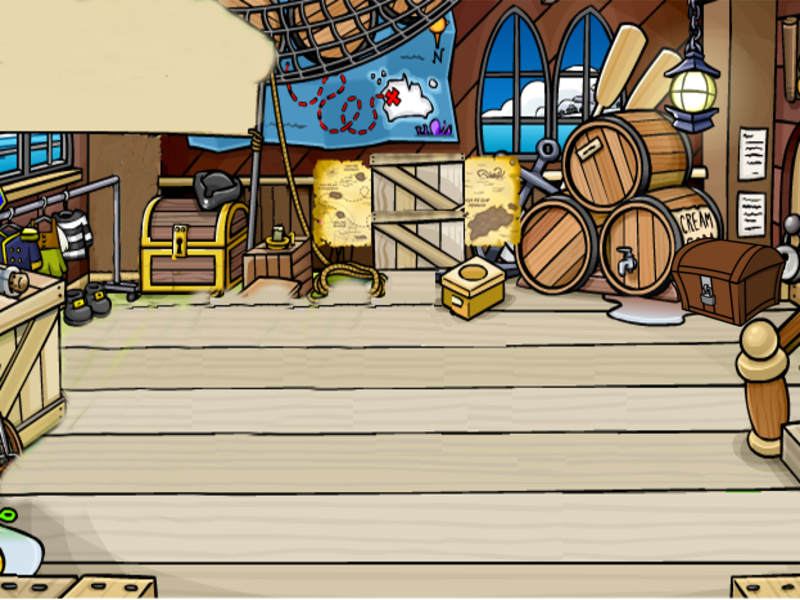
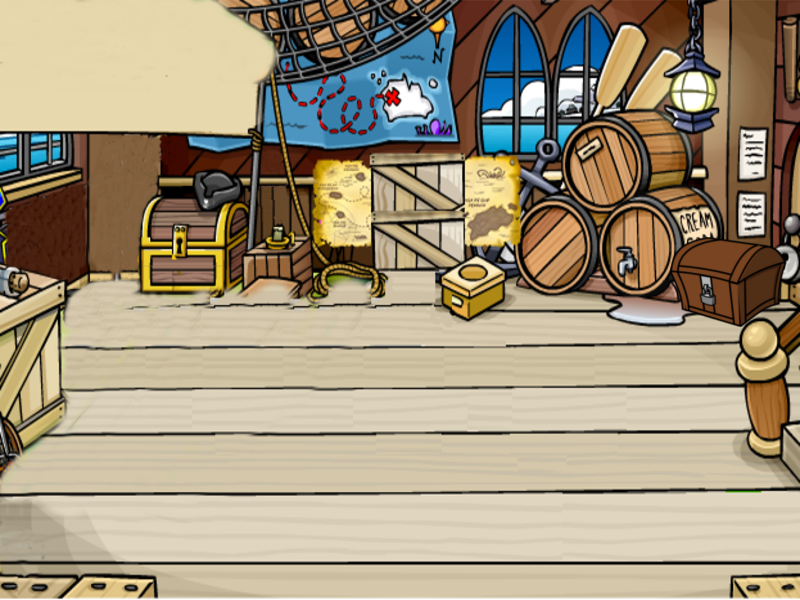
Change assets and positions for game 2 block 1

Changed region(s): [[0.0, 0.27, 0.25, 0.57], [0.0, 0.84, 0.0625, 0.96]]

diff --git a/src/block1/Game2.js b/src/block1/Game2.js
@@ -28,35 +28,35 @@ var b1g2_level2 = [
     {"op": "Si la jarra contiene un litro,\n ¿Cuánto debe contener cada vaso?", "answer1": "1/10", "answer2": "1/11", "answer3": "1/12", "numberOfCups":10, "liters":1, "rightAnswer": "1/10"},
     {"op": "Si la jarra contiene un litro,\n ¿Cuánto debe contener cada vaso?", "answer1": "1/11", "answer2": "2/12", "answer3": "2/11", "numberOfCups":11, "liters":1, "rightAnswer": "1/11"},
     {"op": "Si la jarra contiene un litro,\n ¿Cuánto debe contener cada vaso?", "answer1": "3/1", "answer2": "3/4", "answer3": "1/12", "numberOfCups":12, "liters":1, "rightAnswer": "1/12"},
-    {"op": "Si las jarras contienen un litro,\n ¿Cuánto debe contener cada vaso?", "answer1": "1/6", "answer2": "2/3", "answer3": "1/3", "numberOfCups":3, "liters":2, "rightAnswer": "2/3"},
-    {"op": "Si las jarras contienen un litro,\n ¿Cuánto debe contener cada vaso?", "answer1": "1/2", "answer2": "2/1", "answer3": "1", "numberOfCups":2, "liters":2, "rightAnswer": "1"},
-    {"op": "Si las jarras contienen un litro,\n ¿Cuánto debe contener cada vaso?", "answer1": "1/2", "answer2": "2/8", "answer3": "2/4", "numberOfCups":4, "liters":2, "rightAnswer": "1/2"},
-    {"op": "Si las jarras contienen un litro,\n ¿Cuánto debe contener cada vaso?", "answer1": "2/5", "answer2": "3/5", "answer3": "1/5", "numberOfCups":5, "liters":2, "rightAnswer": "2/5"},
-    {"op": "Si las jarras contienen un litro,\n ¿Cuánto debe contener cada vaso?", "answer1": "1/6", "answer2": "1/2", "answer3": "3/6", "numberOfCups":6, "liters":3, "rightAnswer": "1/2"}
+    {"op": "Si las 2 jarras contienen un litro,\n ¿Cuánto debe contener cada vaso?", "answer1": "1/6", "answer2": "2/3", "answer3": "1/3", "numberOfCups":3, "liters":2, "rightAnswer": "2/3"},
+    {"op": "Si las 2 jarras contienen un litro,\n ¿Cuánto debe contener cada vaso?", "answer1": "1/2", "answer2": "2/1", "answer3": "1", "numberOfCups":2, "liters":2, "rightAnswer": "1"},
+    {"op": "Si las 2 jarras contienen un litro,\n ¿Cuánto debe contener cada vaso?", "answer1": "1/2", "answer2": "2/8", "answer3": "2/4", "numberOfCups":4, "liters":2, "rightAnswer": "1/2"},
+    {"op": "Si las 2 jarras contienen un litro,\n ¿Cuánto debe contener cada vaso?", "answer1": "2/5", "answer2": "3/5", "answer3": "1/5", "numberOfCups":5, "liters":2, "rightAnswer": "2/5"},
+    {"op": "Si las 3 jarras contienen un litro,\n ¿Cuánto debe contener cada vaso?", "answer1": "1/6", "answer2": "1/2", "answer3": "3/6", "numberOfCups":6, "liters":3, "rightAnswer": "1/2"}
 ];
 var b1g2_level3 = [
-    {"op": "Si las jarras contienen un litro,\n ¿Cuánto debe contener cada vaso?", "answer1": "0.5", "answer2": "1/4", "answer3": "0.20", "numberOfCups":8, "liters":2, "rightAnswer": "1/4"},
-    {"op": "Si las jarras contienen un litro,\n ¿Cuánto debe contener cada vaso?", "answer1": "0.25", "answer2": "1/10", "answer3": "1/5", "numberOfCups":10, "liters":2, "rightAnswer": "1/5"},
-    {"op": "Si las jarras contienen un litro,\n ¿Cuánto debe contener cada vaso?", "answer1": "0.33", "answer2": "1/12", "answer3": "1/6", "numberOfCups":12, "liters":2, "rightAnswer": "1/6"},
+    {"op": "Si las 2 jarras contienen un litro,\n ¿Cuánto debe contener cada vaso?", "answer1": "0.5", "answer2": "1/4", "answer3": "0.20", "numberOfCups":8, "liters":2, "rightAnswer": "1/4"},
+    {"op": "Si las 2 jarras contienen un litro,\n ¿Cuánto debe contener cada vaso?", "answer1": "0.25", "answer2": "1/10", "answer3": "1/5", "numberOfCups":10, "liters":2, "rightAnswer": "1/5"},
+    {"op": "Si las 2 jarras contienen un litro,\n ¿Cuánto debe contener cada vaso?", "answer1": "0.33", "answer2": "1/12", "answer3": "1/6", "numberOfCups":12, "liters":2, "rightAnswer": "1/6"},
     {"op": "Si la jarra contiene un litro,\n ¿Cuánto debe contener cada vaso?", "answer1": "1/3", "answer2": "0.5", "answer3": "1/5", "numberOfCups":2, "liters":1, "rightAnswer": "0.5"},
     {"op": "Si la jarra contiene un litro,\n ¿Cuánto debe contener cada vaso?", "answer1": "3", "answer2": "2/3", "answer3": "0.33", "numberOfCups":3, "liters":1, "rightAnswer": "0.33"},
     {"op": "Si la jarra contiene un litro,\n ¿Cuánto debe contener cada vaso?", "answer1": "0.25", "answer2": "1/2", "answer3": "1/8", "numberOfCups":4, "liters":1, "rightAnswer": "0.25"},
     {"op": "Si la jarra contiene un litro,\n ¿Cuánto debe contener cada vaso?", "answer1": "1/2", "answer2": "1/8", "answer3": "0.20", "numberOfCups":5, "liters":1, "rightAnswer": "0.20"},
-    {"op": "Si las jarras contienen un litro,\n ¿Cuánto debe contener cada vaso?", "answer1": "0.5", "answer2": "0.25", "answer3": "0.75", "numberOfCups":4, "liters":2, "rightAnswer": "0.5"},
-    {"op": "Si las jarras contienen un litro,\n ¿Cuánto debe contener cada vaso?", "answer1": "0.4", "answer2": "0.20", "answer3": "0.25", "numberOfCups":5, "liters":2, "rightAnswer": "0.4"},
-    {"op": "Si las jarras contienen un litro,\n ¿Cuánto debe contener cada vaso?", "answer1": "0.5", "answer2": "0.75", "answer3": "0.40", "numberOfCups":4, "liters":3, "rightAnswer": "0.75"},
-    {"op": "Si las jarras contienen un litro,\n ¿Cuánto debe contener cada vaso?", "answer1": "2.5", "answer2": "4.5", "answer3": "0.5", "numberOfCups":2, "liters":5, "rightAnswer": "2.5"},
-    {"op": "Si las jarras contienen un litro,\n ¿Cuánto debe contener cada vaso?", "answer1": "1.25", "answer2": "4.5", "answer3": "0.5", "numberOfCups":4, "liters":5, "rightAnswer": "1.25"},
-    {"op": "Si las jarras contienen un litro,\n ¿Cuánto debe contener cada vaso?", "answer1": "0.4", "answer2": "0.5", "answer3": "0.25", "numberOfCups":10, "liters":5, "rightAnswer": "0.5"}
+    {"op": "Si las 2 jarras contienen un litro,\n ¿Cuánto debe contener cada vaso?", "answer1": "0.5", "answer2": "0.25", "answer3": "0.75", "numberOfCups":4, "liters":2, "rightAnswer": "0.5"},
+    {"op": "Si las 2 jarras contienen un litro,\n ¿Cuánto debe contener cada vaso?", "answer1": "0.4", "answer2": "0.20", "answer3": "0.25", "numberOfCups":5, "liters":2, "rightAnswer": "0.4"},
+    {"op": "Si las 3 jarras contienen un litro,\n ¿Cuánto debe contener cada vaso?", "answer1": "0.5", "answer2": "0.75", "answer3": "0.40", "numberOfCups":4, "liters":3, "rightAnswer": "0.75"},
+    {"op": "Si las 5 jarras contienen un litro,\n ¿Cuánto debe contener cada vaso?", "answer1": "2.5", "answer2": "4.5", "answer3": "0.5", "numberOfCups":2, "liters":5, "rightAnswer": "2.5"},
+    {"op": "Si las 5 jarras contienen un litro,\n ¿Cuánto debe contener cada vaso?", "answer1": "1.25", "answer2": "4.5", "answer3": "0.5", "numberOfCups":4, "liters":5, "rightAnswer": "1.25"},
+    {"op": "Si las 5 jarras contienen un litro,\n ¿Cuánto debe contener cada vaso?", "answer1": "0.4", "answer2": "0.5", "answer3": "0.25", "numberOfCups":10, "liters":5, "rightAnswer": "0.5"}
 ];
 // We need a number between 0 and the array's length - 1. This is to select one
 // of the possible questions with their respective answers.
 var b1g2_quiz = Math.floor((Math.random() * (b1g2_level1.length - 1)));
 var numberOfCups = b1g2_level1[b1g2_quiz].numberOfCups;
 var liters = b1g2_level1[b1g2_quiz].liters;
-var cupXPos = 405;
+var cupXPos = 320;
 var cupYPos = 210;
-var jugYPos = 190;
+var jugXPos = 90;
 var cups = [];
 var jugs = [];
 TuxGame.Block1Game2 = function(game){
@@ -76,27 +76,27 @@ TuxGame.Block1Game2.prototype = {
     TuxGame.G2B1_LOOP.loopFull(1);
 		this.physics.startSystem(Phaser.Physics.ARCADE);
 		this.add.sprite(0, 0, 'b1g2-galleon-bg');
-        b1g2_bg = this.add.sprite(200, -10, 'b1g2-bg');
-        b1g2_bg.scale.setTo(0.50, 0.50);
+        b1g2_bg = this.add.sprite(200, -30, 'b1g2-bg');
+        b1g2_bg.scale.setTo(0.53, 0.50);
     home_button = this.add.button(0, 0, 'b1g1-home_button', this.goMainMenu, this, 1, 0, 2);
 		home_button.scale.setTo(0.07, 0.07);
 		b1g2_table = this.add.sprite(285, 220, 'b1g2-table');
 		b1g2_table.scale.setTo(0.55, 0.80);
-		b1g2_octopus = this.add.sprite(120, 220, 'b1g2-octopus');
+		b1g2_octopus = this.add.sprite(0, 200, 'b1g2-octopus');
 		b1g2_octopus.scale.setTo(0.30, 0.30);
 		for (var i = 0; i < liters; i++) {
-			jugs[i] = this.add.sprite(350, jugYPos, 'b1g2-jar');
+			jugs[i] = this.add.sprite(jugXPos, 160, 'b1g2-jar');
 			jugs[i].scale.setTo(0.15, 0.15);
-			jugYPos += 30;
+			jugXPos += 75;
 		}
 		//b1g2_barrel = this.add.sprite(620, 240, 'b1g2-barrel');
 		//b1g2_barrel.scale.setTo(0.10, 0.10);
 		for (var i = 0; i < numberOfCups; i++) {
             cups[i] = this.add.sprite(cupXPos, cupYPos, 'b1g2-cup');
     		cups[i].scale.setTo(0.25, 0.25);
-            cupXPos += 55;
+            cupXPos += 70;
             if(i == 5){
-            	cupXPos = 405;
+            	cupXPos = 320;
             	cupYPos = 240;
             }
         }
@@ -108,7 +108,7 @@ TuxGame.Block1Game2.prototype = {
 		b1g2_button2.scale.setTo(0.40, 0.40);
         b1g2_button3 = b1g2_buttons.create(536, 450, 'b1g2-button');
 		b1g2_button3.scale.setTo(0.40, 0.40);
-		b1g2_reaction = this.add.sprite(150, 200, 'b1g2-thumbs_up');
+		b1g2_reaction = this.add.sprite(0, 260, 'b1g2-thumbs_up');
 		b1g2_reaction.scale.setTo(0.50, 0.50);
 		b1g2_reaction.visible = false;
 		b1g2_correct = this.add.sprite(100, 40, "b1g2-correct").scale.setTo(0.5,0.5);
@@ -127,7 +127,7 @@ TuxGame.Block1Game2.prototype = {
 		// b1g1_game_end = this.add.audio('b1g1-game_finale');
 
 		b1g2_message = this.add.text(50, 120, '', { font:'bold 40pt Times New Roman', fill: '#000000' });
-	    b1g2_instruction = this.add.text(320, 50, '', { font:'bold 20pt Times New Roman', fill: '#000000' });
+	    b1g2_instruction = this.add.text(320, 30, '', { font:'bold 20pt Times New Roman', fill: '#000000' });
 	    b1g2_instruction.text = b1g2_level1[b1g2_quiz].op;
 	    b1g2_levelText = this.add.text(100, 10, ('Nivel ' + b1g2_levelStatus), { font:'bold 25px Verdana', fill: '#4665b8' });
 	    b1g2_goodCounterText = this.add.text(160, 40, goodCounter, { font:'bold 25px Verdana', fill: '#4665b8' });
@@ -255,25 +255,25 @@ TuxGame.Block1Game2.prototype = {
 		b1g2_quiz = Math.floor((Math.random() * (b1g2_quizArray.length - 1)));
 		numberOfCups = b1g2_quizArray[b1g2_quiz].numberOfCups;
 		liters = b1g2_quizArray[b1g2_quiz].liters;
-        cupXPos = 405;
+        cupXPos = 320;
         cupYPos = 210;
-		jugXPos = 350;
-		jugYPos = 190;
+		jugXPos = 90;
+		jugYPos = 160;
 		for (var i = 0; i < liters; i++) {
 			jugs[i] = this.add.sprite(jugXPos, jugYPos, 'b1g2-jar');
 			jugs[i].scale.setTo(0.15, 0.15);
-			jugYPos += 20;
+			jugXPos += 75;
 			if(i == 2){
-				jugXPos = 290;
+				jugXPos = 120;
 				jugYPos = 190;
 			}
 		}
         for (var i = 0; i < numberOfCups; i++) {
             cups[i] = this.add.sprite(cupXPos, cupYPos, 'b1g2-cup');
     		cups[i].scale.setTo(0.25, 0.25);
-            cupXPos += 55;
+            cupXPos += 70;
             if(i == 5){
-            	cupXPos = 405;
+            	cupXPos = 320;
             	cupYPos = 240;
             }
         }
@@ -291,9 +291,9 @@ TuxGame.Block1Game2.prototype = {
 		score = 30;
 		goodCounter = 0;
 		wrongCounter = 0;
-		cupXPos = 405;
+		cupXPos = 320;
 		cupYPos = 210;
-		jugYPos = 190;
+		jugYPos = 160;
 		for (var i = 0; i < jugs.length; i++) {
 			jugs[i].destroy();
 		}
